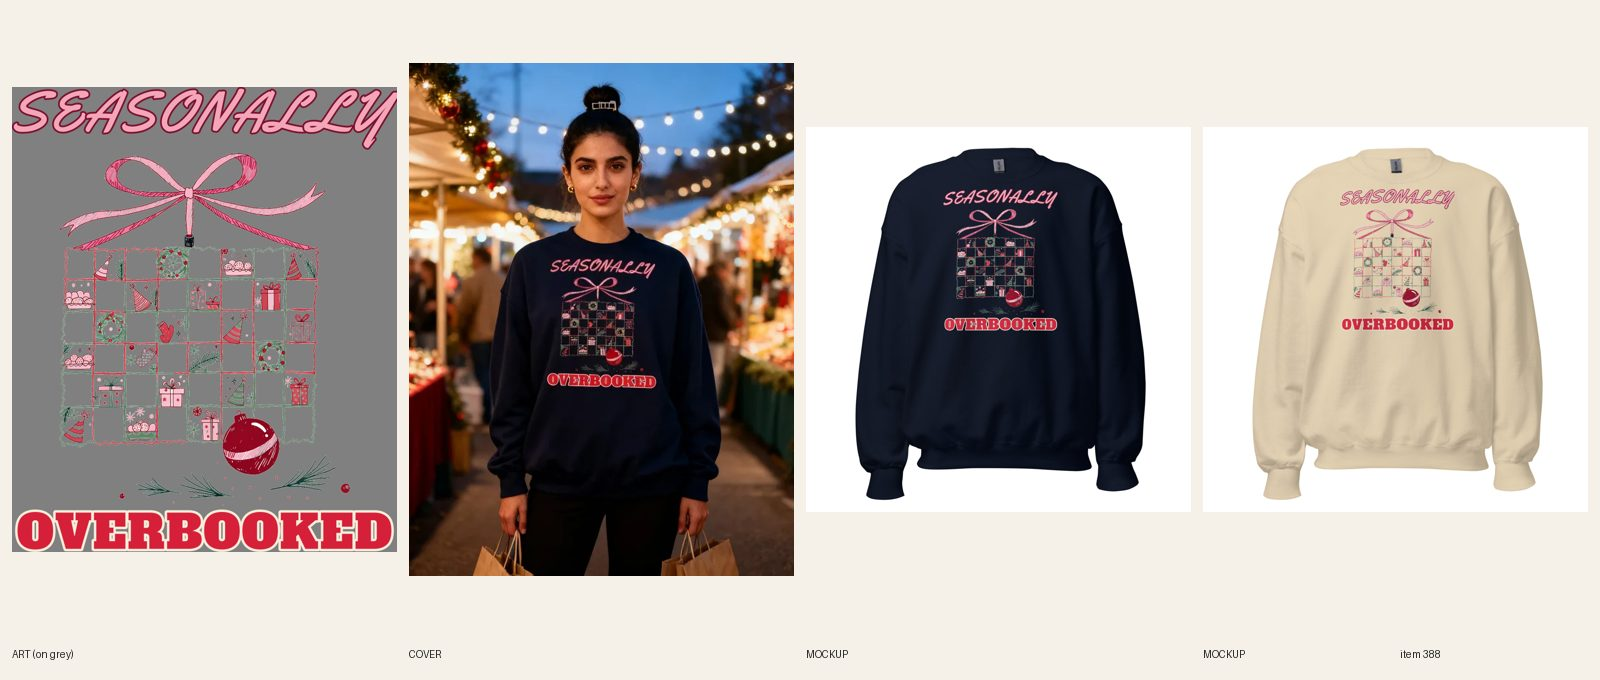
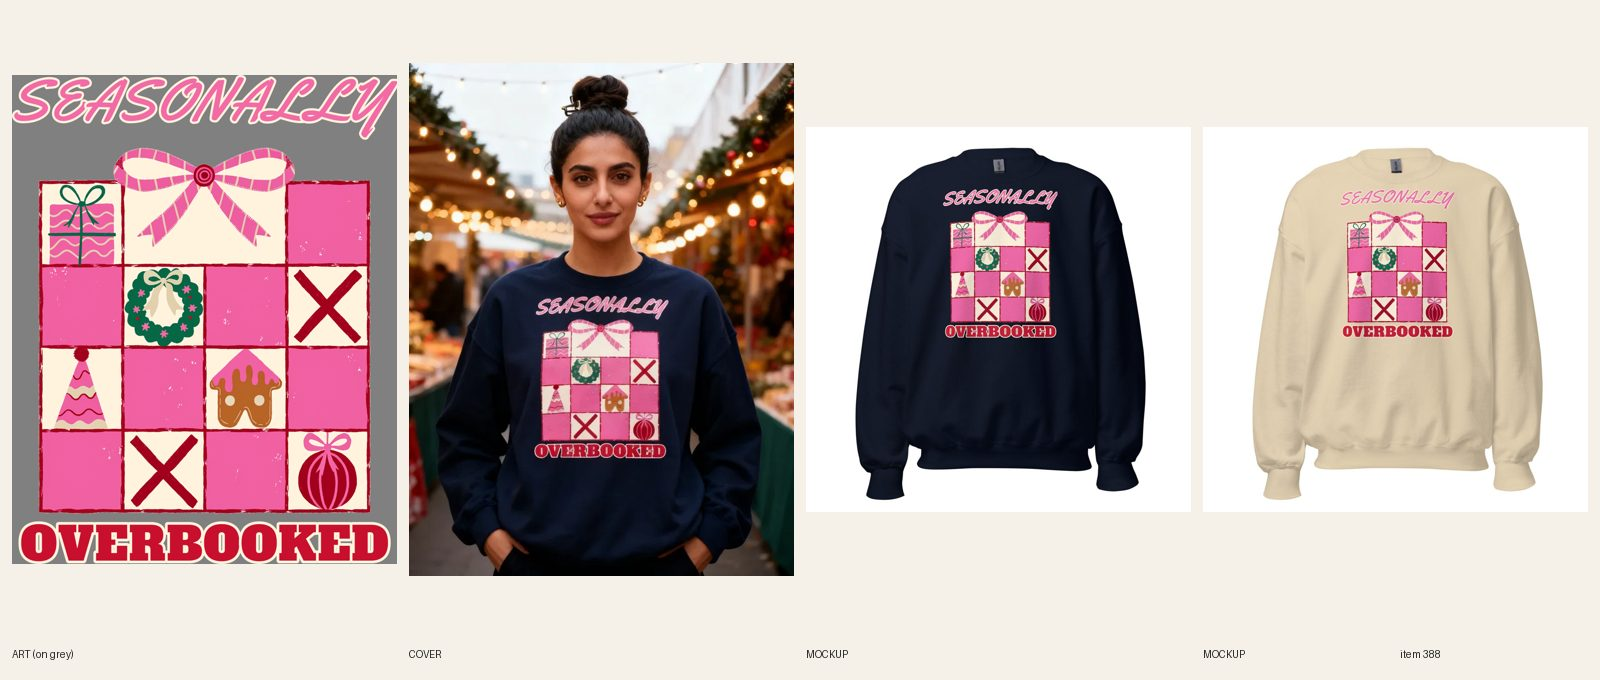
[E] 388 redo: new calendar art, mockups, cover (sync running)

diff --git a/src/data/covers.ts b/src/data/covers.ts
@@ -384,7 +384,7 @@ export const covers: Record<string, { src: string; alt: string }> = {
   'unisex-alien-visiting-not-impressed-oversized-hoodie': { src: '/covers/unisex-alien-visiting-not-impressed-oversized-hoodie.webp', alt: 'Man and woman in matching navy Visiting Not Impressed alien oversized hoodies in a desert roadside diner parking lot at blue hour' },
   'womens-beach-low-tide-low-effort-oversized-hoodie': { src: '/covers/womens-beach-low-tide-low-effort-oversized-hoodie.webp', alt: 'Woman in a navy Low Tide Low Effort crab oversized hoodie on a cold windy beach boardwalk with dunes and beach grass behind her' },
   'mens-outdoors-mountains-called-left-on-read-hoodie': { src: '/covers/mens-outdoors-mountains-called-left-on-read-hoodie.webp', alt: 'Man in a sand Mountains Called Left on Read hoodie at a mountain overlook with a guardrail and peaks behind him, hands in the pouch pocket' },
-  'womens-christmas-seasonally-overbooked-crewneck-sweatshirt': { src: '/covers/womens-christmas-seasonally-overbooked-crewneck-sweatshirt.webp', alt: 'Woman in a navy Seasonally Overbooked December calendar crewneck sweatshirt at an evening holiday market with string lights and shopping bags' },
+  'womens-christmas-seasonally-overbooked-crewneck-sweatshirt': { src: '/covers/womens-christmas-seasonally-overbooked-crewneck-sweatshirt.webp', alt: 'Woman in a navy Seasonally Overbooked December calendar crewneck sweatshirt with her hands in her pockets at an evening holiday market with string lights' },
   'unisex-introvert-i-have-plans-hoodie': { src: '/covers/unisex-introvert-i-have-plans-hoodie.webp', alt: 'Man and woman in matching navy I Have Plans hoodies on a bookshop window seat on a rainy afternoon, hands in their pouch pockets' },
   'mens-christmas-attending-under-protest-crewneck-sweatshirt': { src: '/covers/mens-christmas-attending-under-protest-crewneck-sweatshirt.webp', alt: 'Man in a navy Attending Under Protest crewneck sweatshirt with a grumpy cross-stitch reindeer, standing deadpan at a decorated Christmas party' },
   'womens-capybara-out-of-office-soaking-oversized-hoodie': { src: '/covers/womens-capybara-out-of-office-soaking-oversized-hoodie.webp', alt: 'Woman in a navy Out of Office capybara oversized hoodie, smiling on a lakeside cabin deck at golden hour with a steaming mug on the rail' },

diff --git a/docs/model-registry.md b/docs/model-registry.md
@@ -469,7 +469,7 @@ Rows 11–43 were re-pointed on 2026-10-08 when the briefs were rewritten from d
 | 576 | Native Hawaiian man, early 40s, short black hair, trimmed goatee | RESERVED — #385 Fisher of Men, Mostly Bass Half Zip cover |
 | 577 | Filipino-American woman, late 20s, shoulder-length dark hair with curtain bangs, gold hoops | RESERVED — #386 Official Tree Topper Graphic Tee cover |
 | 578 | Black woman, mid 40s, short silver-streaked natural curls, red-framed glasses | RESERVED — #387 Official Tree Topper Crewneck Sweatshirt cover |
-| 579 | Persian-American woman, early 30s, long dark wavy hair in a claw clip, small gold studs | USED 2026-10-16 — #388 Seasonally Overbooked crewneck cover (seedream, 2 attempts) |
+| 579 | Persian-American woman, early 30s, long dark wavy hair in a claw clip, small gold studs | USED 2026-10-16 — #388 Seasonally Overbooked crewneck cover (REDO art: new calendar print; seedream 2 attempts, 1st hair over the Y) |
 | 580 | White woman, late 30s, honey-blonde lob, freckles, chunky knit scarf at her side | RESERVED — #389 Seasonally Overbooked Graphic Tee cover |
 | 581 | man AND woman together: Somali-American man, early 30s, close-cropped hair, short beard; white woman, early 30s, red braids | RESERVED — #390 Gnome Comment Graphic Tee cover |
 | 582 | man AND woman together: Vietnamese-American man, late 20s, textured crop, round glasses; Black woman, late 20s, long box braids in a high pony | RESERVED — #391 Gnome Comment Crewneck Sweatshirt cover |
